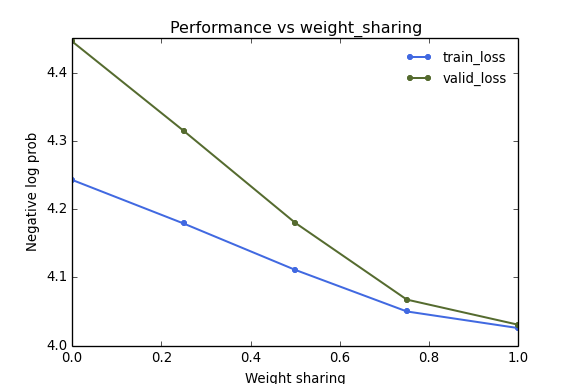
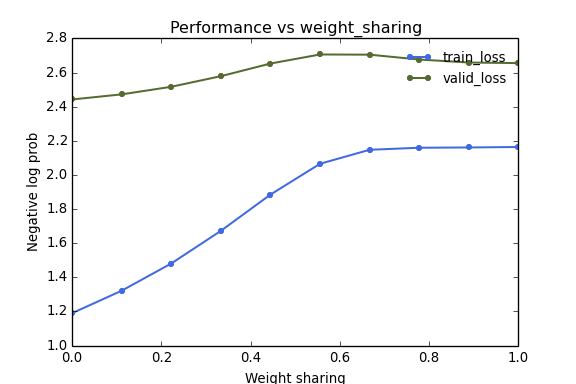
Trying to show virtue of sharing weights. Not clear yet

diff --git a/experiments/Jan_31_multitask_as_L2/2/experiment.py b/experiments/Jan_31_multitask_as_L2/2/experiment.py
@@ -9,6 +9,7 @@ import hypergrad.omniglot as omniglot
 from hypergrad.nn_utils import make_nn_funs, VectorParser
 from hypergrad.optimizers import sgd_meta_only as sgd, rms_prop
 from hypergrad.util import RandomState, dictslice
+from hypergrad.odyssey import omap
 
 # ----- Fixed params -----
 layer_sizes = [784, 300, 55]
@@ -16,7 +17,7 @@ N_layers = len(layer_sizes) - 1
 N_scripts = 50
 batch_size = 200
 N_scripts_per_iter = 5
-N_iters = 10
+N_iters = 1000
 alpha = 1.0
 beta = 0.9
 seed = 2
@@ -107,10 +108,22 @@ def run(script_corr):
     return results['train_loss'][-1], results['valid_loss'][-1]
 
 def plot():
+    # Jobs didn't finish, but here are the results grepped from stdout files (after 600 iterations)
+    train_loss, valid_loss = zip(*[( 1.18981821808,  2.44209621532 ),
+                                   ( 1.32133787107,  2.47207029118 ),
+                                   ( 1.48092102979,  2.51644325327 ),
+                                   ( 1.6721216284,  2.57854067933 ),
+                                   ( 1.88463380972,  2.65262902885 ),
+                                   ( 2.06526062967,  2.70579907853 ),
+                                   ( 2.14729400176,  2.70467654679 ),
+                                   ( 2.1593192532,  2.6762408726 ),
+                                   ( 2.16106019828,  2.65861610487 ),
+                                   ( 2.1636410108,  2.6552748234 )])
+
     import matplotlib.pyplot as plt
     import matplotlib as mpl
-    with open('results.pkl') as f:
-         train_loss, valid_loss = zip(*pickle.load(f))
+    # with open('results.pkl') as f:
+    #      train_loss, valid_loss = zip(*pickle.load(f))
 
     fig = plt.figure(0)
     fig.set_size_inches((6,4))
@@ -123,9 +136,9 @@ def plot():
     ax.legend(loc=1, frameon=False)
     plt.savefig('performance.png')
 
-all_script_corr = np.linspace(0, 1, 5)
+all_script_corr = np.linspace(0, 1, 10)
 if __name__ == '__main__':
-    results = map(run, all_script_corr)
-    with open('results.pkl', 'w') as f:
-        pickle.dump(results, f, 1)
+    # results = omap(run, all_script_corr)
+    # with open('results.pkl', 'w') as f:
+    #     pickle.dump(results, f, 1)
     plot()
